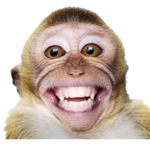
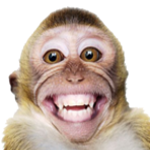
monkey2 edges

diff --git a/sass/style.css b/sass/style.css
@@ -42,7 +42,8 @@ img {
 .container .monkey2 {
   bottom: -250px;
   left: 50%;
-  z-index: 3; }
+  z-index: 3;
+  border-radius: 10%}
 .container .monkey3 {
   right: -45%;
   bottom: 25%;
